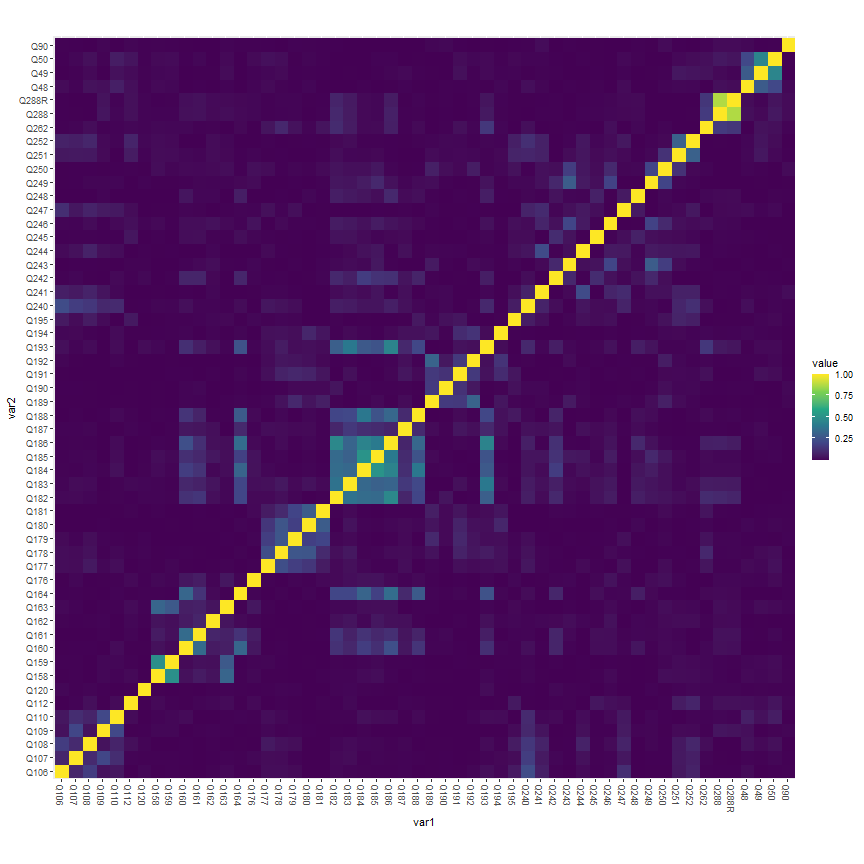
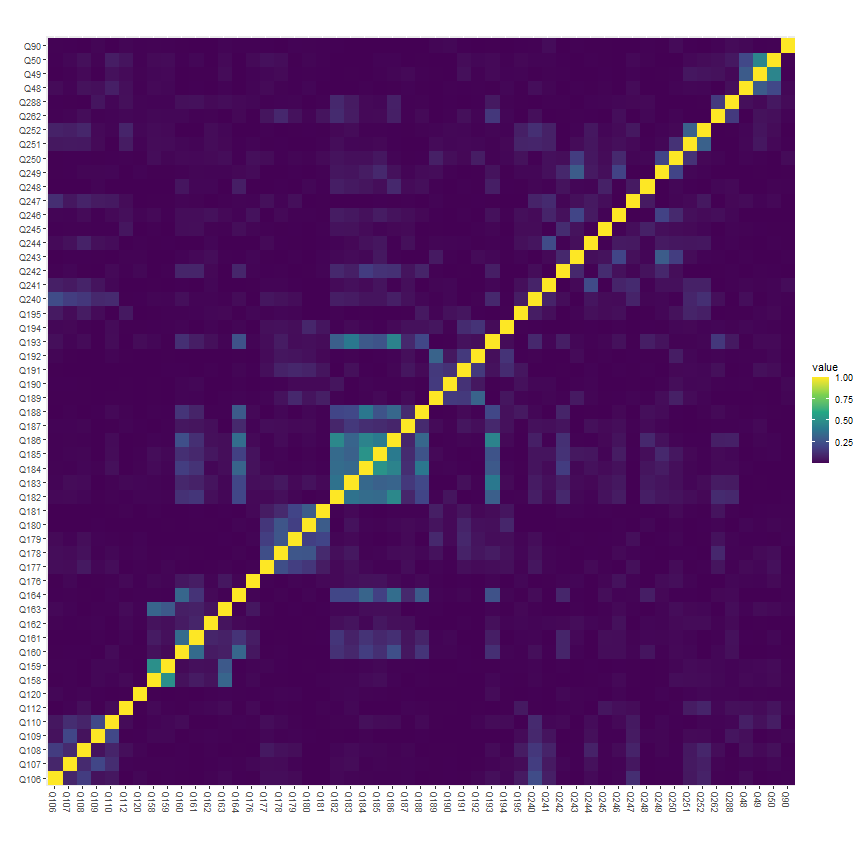
Dropped a few more variables from de_values.

diff --git a/output/de_values.md b/output/de_values.md
@@ -28,7 +28,7 @@ On continuous responses, considered jointly:
 
 ```r
 wvs_numeric <- wvs %>%
-  select(where(is.numeric), H_URBRURAL, -Q289CS, -Q261) %>%
+  select(where(is.numeric), H_URBRURAL, -Q288R, -Q289CS, -Q261) %>%
   na.omit()
 
 wvs_response <- wvs_numeric %>%
@@ -41,7 +41,7 @@ summary(wvs_manova, test = "Hotelling")
 
 ```
 ##                         Df Hotelling-Lawley approx F num Df den Df Pr(>F)
-## wvs_numeric$H_URBRURAL   1          0.17154   1.1753     54    370 0.1977
+## wvs_numeric$H_URBRURAL   1          0.17145   1.2002     53    371 0.1713
 ## Residuals              423
 ```
 
@@ -60,6 +60,7 @@ ggplot(wvs_numeric_corr, aes(var1, var2, fill = value)) +
   geom_raster() +
   scale_fill_viridis_c() +
   theme(axis.text.x = element_text(angle = -90, hjust = 0, vjust = 0.5)) +
+  labs(x = "", y = "") +
   coord_equal()
 ```
 
